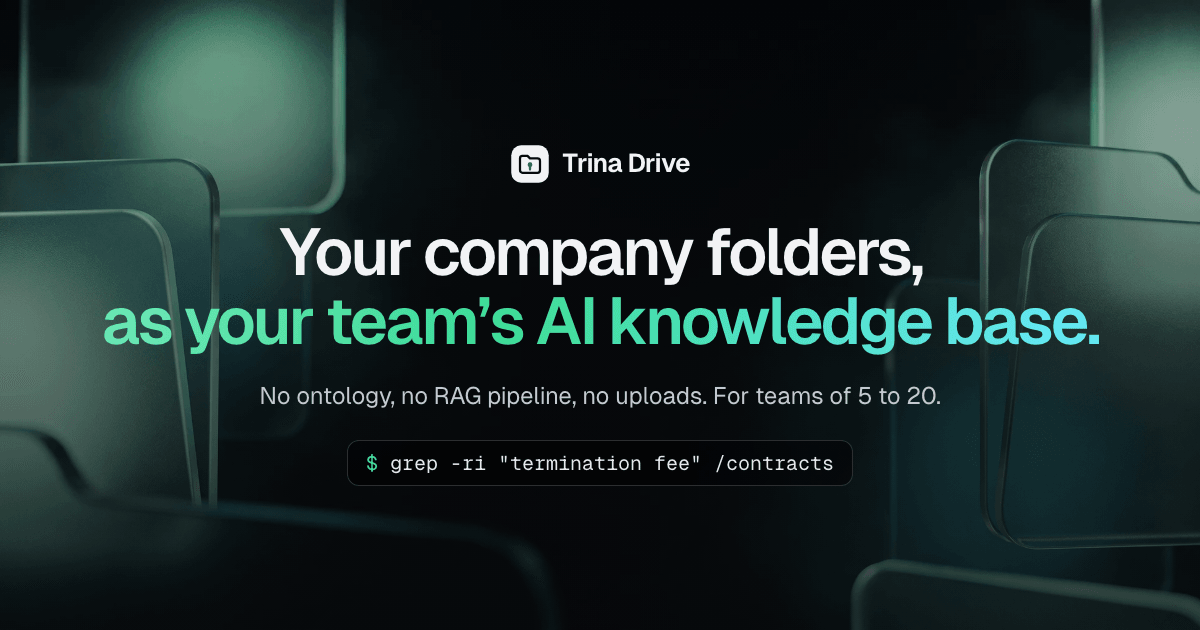
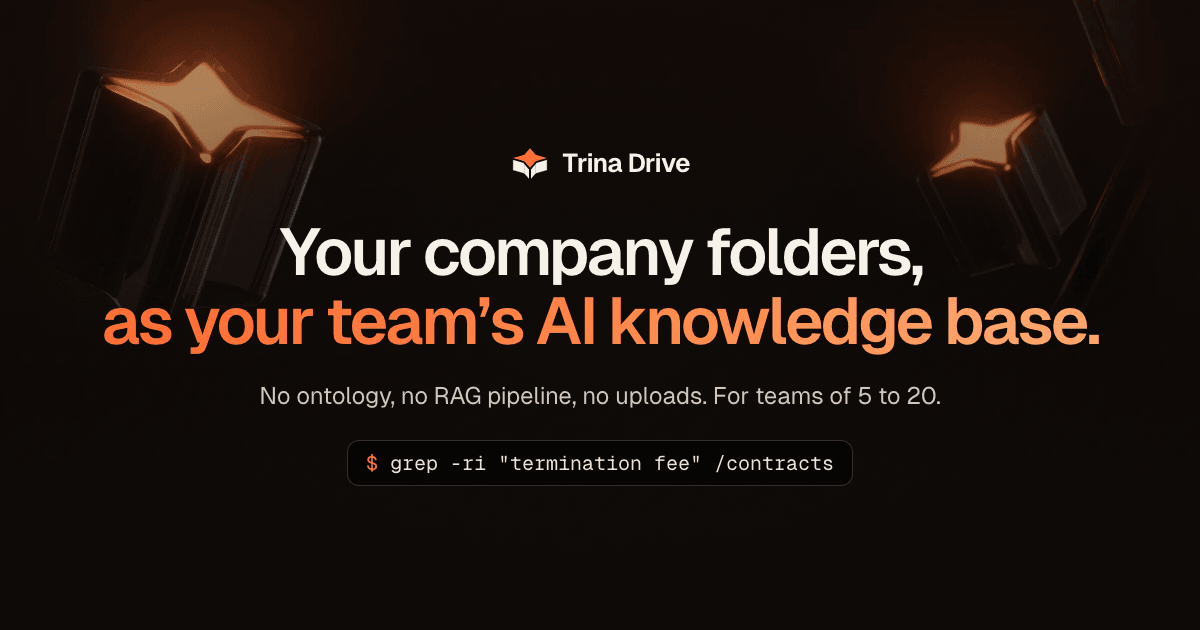
website: og.png in the new brand (Star Pillar mark, Signal Orange, night key visual)

diff --git a/website/scripts/og.html b/website/scripts/og.html
@@ -8,25 +8,25 @@
 <style>
   @font-face { font-family: Geist; src: url("../public/fonts/Geist-Variable.woff2") format("woff2"); font-weight: 100 900; }
   @font-face { font-family: "Geist Mono"; src: url("../public/fonts/GeistMono-Variable.woff2") format("woff2"); font-weight: 100 900; }
-  html, body { margin: 0; width: 1200px; height: 630px; overflow: hidden; background: #08090b; }
-  body { position: relative; font-family: Geist, sans-serif; color: #f2f3f5; -webkit-font-smoothing: antialiased; }
+  html, body { margin: 0; width: 1200px; height: 630px; overflow: hidden; background: #0e0c0b; }
+  body { position: relative; font-family: Geist, sans-serif; color: #f6f2ea; -webkit-font-smoothing: antialiased; }
   .bg { position: absolute; inset: 0; background: url("../public/img/hero-dark-2400.webp") center / cover no-repeat; opacity: .9; }
-  .bg::after { content: ""; position: absolute; inset: 0; background: radial-gradient(60% 70% at 50% 50%, rgba(8,9,11,.55), rgba(8,9,11,.15) 80%), linear-gradient(rgba(8,9,11,0), rgba(8,9,11,.7)); }
+  .bg::after { content: ""; position: absolute; inset: 0; background: radial-gradient(60% 70% at 50% 50%, rgba(14,12,11,.6), rgba(14,12,11,.15) 80%), linear-gradient(rgba(14,12,11,0), rgba(14,12,11,.7)); }
   .wrap { position: absolute; inset: 0; display: flex; flex-direction: column; align-items: center; justify-content: center; text-align: center; padding: 0 80px; }
   .brand { display: flex; align-items: center; gap: 12px; font-size: 26px; font-weight: 650; letter-spacing: -.03em; }
   .brand svg { width: 40px; height: 40px; }
   h1 { margin: 34px 0 0; font-size: 66px; line-height: 1.04; letter-spacing: -.048em; font-weight: 600; }
-  h1 span { display: block; background: linear-gradient(100deg, #6ee7b7, #3ddc97 40%, #67e8f9); -webkit-background-clip: text; background-clip: text; color: transparent; }
-  p { margin: 26px 0 0; font-size: 24px; color: #c3c9d1; letter-spacing: -.01em; }
-  code { display: inline-block; margin-top: 30px; padding: 10px 18px; border-radius: 12px; border: 1px solid rgba(255,255,255,.16); background: rgba(0,0,0,.45); font-family: "Geist Mono", monospace; font-size: 20px; color: #e6e8eb; }
-  code b { color: #3ddc97; font-weight: 400; }
+  h1 span { display: block; background: linear-gradient(100deg, #ff6a33, #ff8a4c 55%, #ffab73); -webkit-background-clip: text; background-clip: text; color: transparent; }
+  p { margin: 26px 0 0; font-size: 24px; color: #cfc6bb; letter-spacing: -.01em; }
+  code { display: inline-block; margin-top: 30px; padding: 10px 18px; border-radius: 12px; border: 1px solid rgba(255,255,255,.16); background: rgba(0,0,0,.45); font-family: "Geist Mono", monospace; font-size: 20px; color: #ece6dc; }
+  code b { color: #ff6a33; font-weight: 400; }
 </style>
 </head>
 <body>
   <div class="bg"></div>
   <div class="wrap">
     <div class="brand">
-      <svg viewBox="0 0 32 32"><rect x="1" y="1" width="30" height="30" rx="8" fill="#f2f3f5"/><path d="M8 11.5a2 2 0 0 1 2-2h4l2 2h6a2 2 0 0 1 2 2V21a2 2 0 0 1-2 2H10a2 2 0 0 1-2-2z" fill="none" stroke="#0a0b0d" stroke-width="1.8" stroke-linejoin="round"/><circle cx="16" cy="16.5" r="1.9" fill="#0a7a53"/><path d="M16 18v2.4" stroke="#0a7a53" stroke-width="1.8" stroke-linecap="round"/></svg>
+      <svg viewBox="0 0 32 32"><defs><mask id="m" maskUnits="userSpaceOnUse" x="-8" y="-8" width="48" height="48"><rect x="-8" y="-8" width="48" height="48" fill="#fff"/><path d="M16 19.028L11.497 13.85L2.528 11.25L11.497 8.65L16 3.472L20.503 8.65L29.472 11.25L20.503 13.85Z" fill="#000" stroke="#000" stroke-width="3" stroke-linejoin="round"/><path d="M16 19.028L16 29.528" stroke="#000" stroke-width="1.65"/></mask></defs><g fill="#f6f2ea" stroke="#f6f2ea" stroke-width="0.25" stroke-linejoin="round" mask="url(#m)"><path d="M29.472 11.25L20.503 13.85L20.503 23.35L29.472 20.75Z"/><path d="M11.497 13.85L2.528 11.25L2.528 20.75L11.497 23.35Z"/><path d="M16 19.028L11.497 13.85L11.497 23.35L16 28.528Z"/><path d="M20.503 13.85L16 19.028L16 28.528L20.503 23.35Z"/></g><path d="M16 19.028L11.497 13.85L2.528 11.25L11.497 8.65L16 3.472L20.503 8.65L29.472 11.25L20.503 13.85Z" fill="#ff6a33"/></svg>
       Trina Drive
     </div>
     <h1>Your company folders,<span>as your team’s AI knowledge base.</span></h1>
